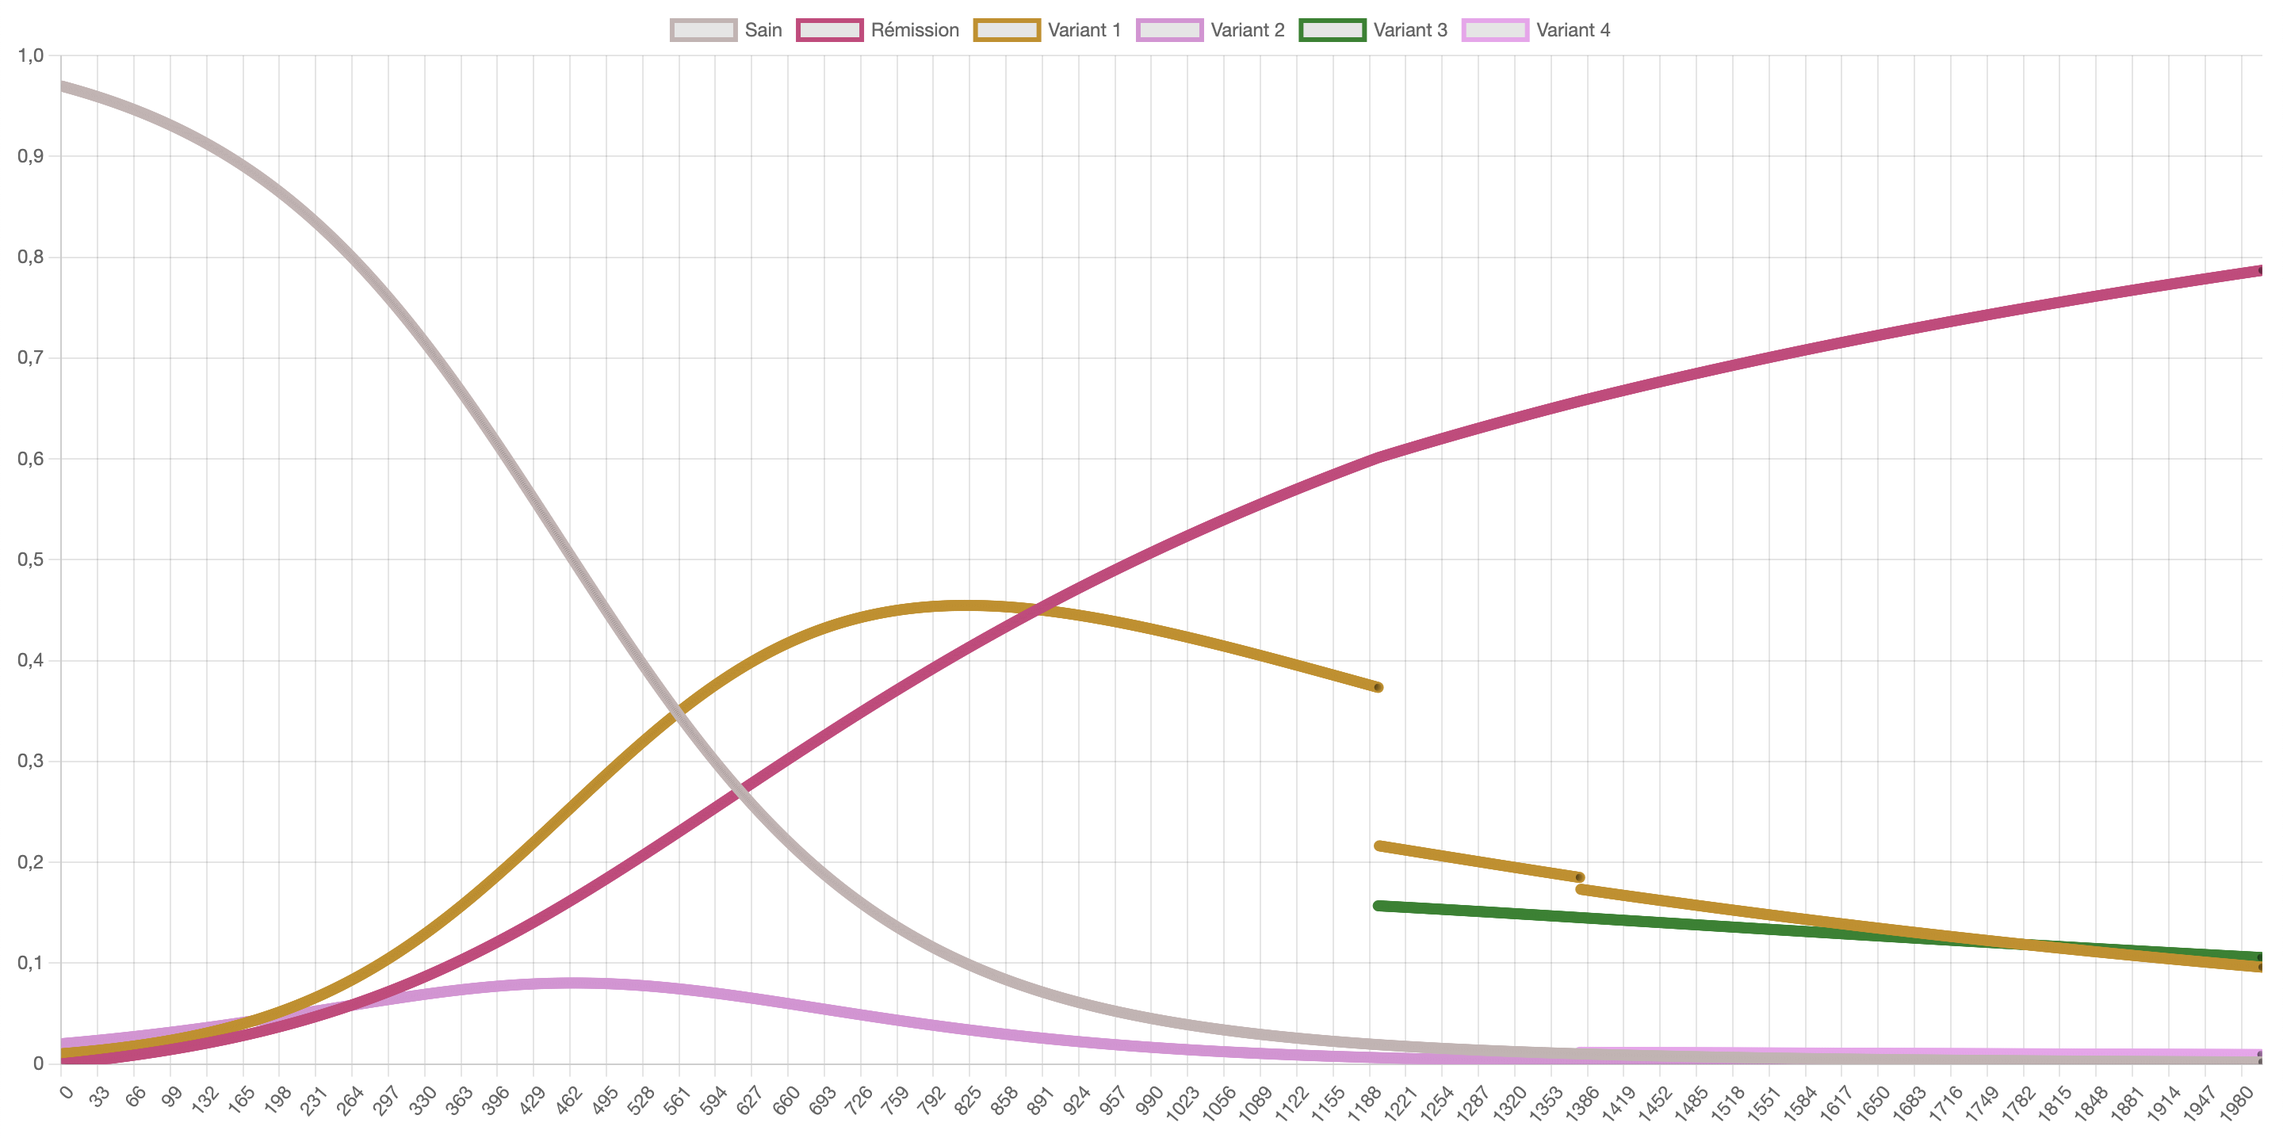
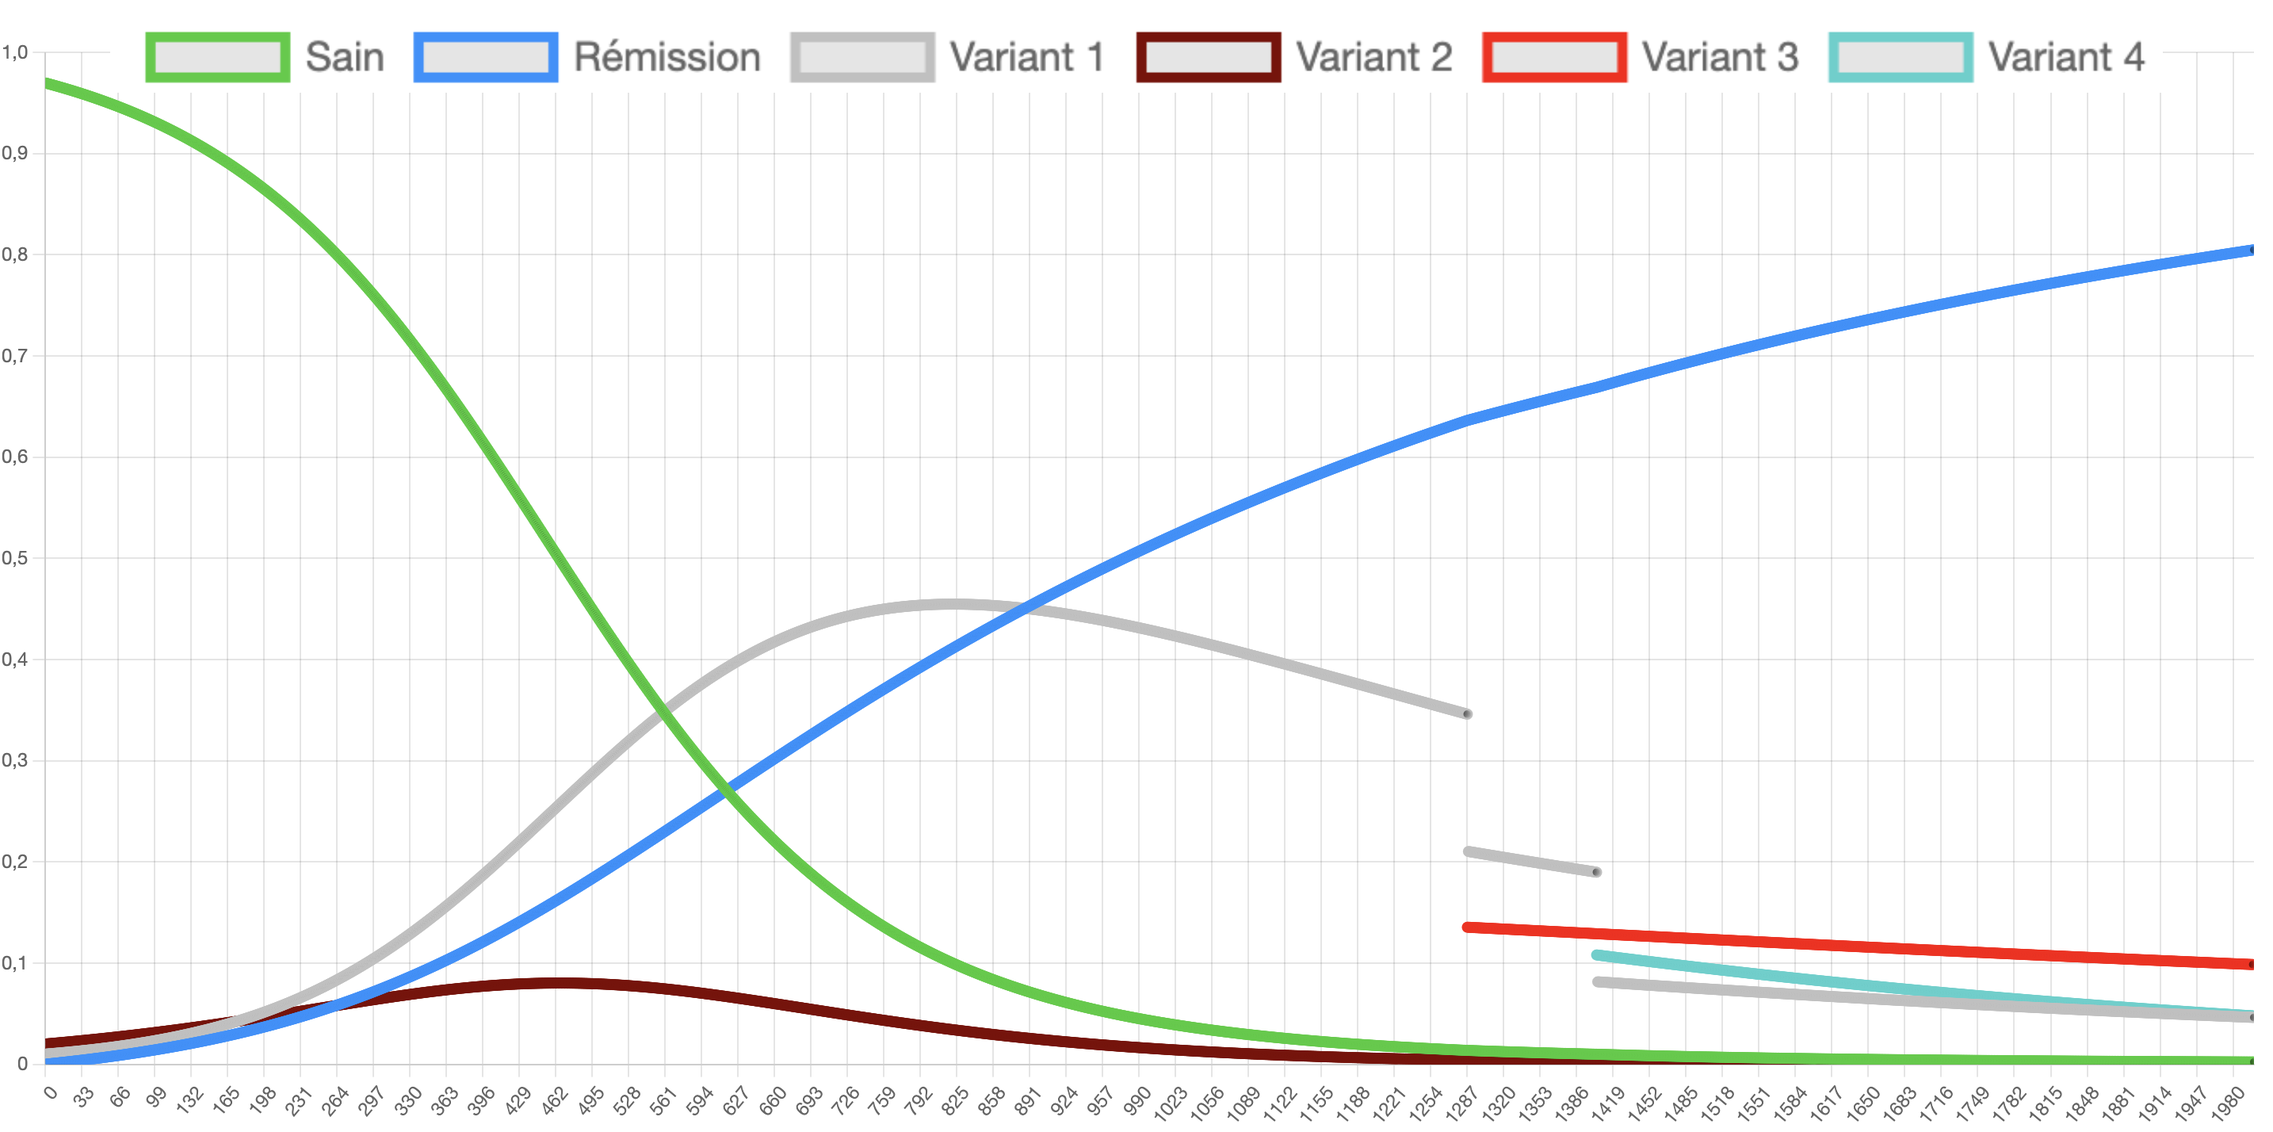
:sparkles: :memo: Update html and lateX

diff --git a/www/index.html b/www/index.html
@@ -22,7 +22,7 @@
         <input type="number" id="healty" name="healty" min="0" max="1" step="0.1" />
         <label>Taux de personnes en rémission</label>
         <input type="number" id="remission" name="remission" min="0" max="1" step="0.1" />
-        <label>Gamma pour la probabilité de mutation du virus</label>
+        <label>Mutabilité du virus</label>
         <input type="number" id="gamma" name="gamma" min="0" max="1" step="0.01" />
         <label>Probabilité de créer un nouveau variant avec des paramètres très éloignées de son parent.</label>
         <input type="number" id="differentVariantPercent" name="differentVariantPercent" min="0" max="100" step="1" />

diff --git a/rapport.tex b/rapport.tex
@@ -1,11 +1,12 @@
 \documentclass{article}
-\usepackage[T1]{fontenc} 
+\usepackage[T1]{fontenc}
 \usepackage[utf8]{inputenc}
 \usepackage[french]{babel}
 \usepackage{listings, xcolor, graphicx}
 \usepackage{amsmath}
 \usepackage{textgreek}
 \usepackage{enumitem}
+\usepackage{subcaption}
 \graphicspath{ {./} }
 
 \title{Modélisation de la propagation des variants du COVID}
@@ -18,11 +19,13 @@
 
 \section{Résumé}
 
-Dans ce rapport, ...
+Dans ce rapport, on a répondu a la problématique suivante :\\
+Le comportement de l'épidemie de la COVID-19 est-il influencé par la circulation, la mutation et l'interaction de variants ?
+Pour répondre à cette question, on a mis en place un certain nombre d'équation afin de réaliser des simulations. \\Celles-ci nous ont permis d'en conclure que la circulation, la mutation et l'interaction influencent le comportement de l'épidemie.
 
 \section{Introduction}
 
-Dans ce rapport, on va étudier la propagation de la Covid-19 par le biais des variants.
+Dans ce rapport, on va étudier la propagation de la COVID-19 par le biais des variants.
 On se demande alors si leur circulation et mutation influencent le comportement de l'épidémie, en plus de considérer leur interaction entre eux.\\
 
 \noindent
@@ -43,7 +46,7 @@ Enfin, on concluera notre étude.\\
 
 La modélisation de départ est très basique et représente l'évolution d'un seul variant en prenant en compte sa virulence et sa force de contamination.\\
 \noindent
-Les variables de base pour seulement 1 virus sont les suivantes : 
+Les variables de base pour seulement 1 virus sont les suivantes :
 \begin{align}
     S(t)= \text{\% de personnes saines dans la population au temps t} \\
     I(t)= \text{\% de personnes contaminées dans la population au temps t} \\
@@ -53,7 +56,7 @@ Les variables de base pour seulement 1 virus sont les suivantes :
 \textalpha \space représente la force de contagion du virus. \\
 \textbeta \space représente la virulence du virus. \\
 \noindent
-La simulation discrétisée par le temps est représentée dans le système d'équation suivante : 
+La simulation discrétisée par le temps est représentée dans le système d'équation suivante :
 \begin{align}
     \dot{S}(t)= -\alpha S(t)I(t) \\
     \dot{I}(t)= \alpha S(t)I(t)-\beta I(t) \\
@@ -64,7 +67,7 @@ Cette mise en équation permet de simuler facilement la propagation de la Covid-
 
 \section{Modélisation avancée}
 
-Afin de modéliser un modèle à X variants, un nouveau système d'équation est nécessaire.\\ 
+Afin de modéliser un modèle à X variants, un nouveau système d'équation est nécessaire.\\
 Pour débuter, on a définit un nouveau modèle avec 2 variants qui pourra être modifié pour permettre de simuler X variants.\\
 \noindent
 Les variables de notre nouveau modèle sont les mêmes que précédemment, c'est-à-dire :
@@ -113,7 +116,7 @@ Si une mutation doit être réalisé alors \\
 T est un nombre aléatoire tel que 0 < T < 100 \\
 t est la probabilité que les propriétés d'un variant soient fortement différentes des propriétés du parent.\\
 Si T > t \\
-Alors F(T) = 
+Alors F(T) =
 \begin{align}
     new_\alpha = x, \alpha_{variant} \times 1.2 < x < \alpha_{variant} \times 1.4 \\
     new_\beta = x, \beta_{variant} \times 0.9 < x < \beta_{variant} \times 1.1
@@ -131,134 +134,140 @@ Sinon F(T) = \\
 Dans cette partie, on va réaliser plusieurs simulations avec différents paramètres. Ces simulations sont produites avec un outil que l'on a développé et déployé en ligne, disponible à l'adresse suivante : https://modelisation.vercel.app/ \\
 Les paramètres initiaux sont les suivants : \\
 \begin{enumerate}
-    \item Taux de personnes saines -> 0,97
-    \item Taux de personnes en rémission -> 0
-    \item Gamma pour la probabilité de mutation du virus -> 0,01
-    \item Probabilité de créer un nouveau variant avec des paramètres très éloignées de son parent -> 1
-    \item Durée de la simulation en jours -> 2000\\
+    \item Taux de personnes saines = 0,97
+    \item Taux de personnes en rémission = 0
+    \item Mutabilité du virus = 0,01
+    \item Probabilité de créer un nouveau variant avec des paramètres très éloignées de son parent = 1
+    \item Durée de la simulation en jours = 2000\\
 \end{enumerate}
-Pour le variant 1 : 
+Pour le variant 1 :
 \begin{enumerate}
-    \item Taux de personnes infecté -> 0,01
-    \item Force de contagion du variant -> 0,01
-    \item Virulence du variant -> 0,001\\
+    \item Taux de personnes infecté = 0,01
+    \item Force de contagion du variant = 0,01
+    \item Virulence du variant = 0,001\\
 \end{enumerate}
-Pour le variant 2 : 
+Pour le variant 2 :
 \begin{enumerate}
-    \item Taux de personnes infecté -> 0,02
-    \item Force de contagion du variant -> 0,01
-    \item Virulence du variant -> 0,005\\
+    \item Taux de personnes infecté = 0,02
+    \item Force de contagion du variant = 0,01
+    \item Virulence du variant = 0,005\\
 \end{enumerate}
 
-Dans la majorité des simulations, on fera varier un seul de ses paramètres afin d'identifier la cause réel du changement. \\ 
+Dans la majorité des simulations, on fera varier un seul de ses paramètres afin d'identifier la cause réel du changement. \\
 Si on se permet de modifier plusieurs paramètres en même temps, on ne peut plus être sûr de ce qui cause un possible changement observé. \\
 
-\subsection{Simulation 1}
+\subsection{Simulation de référence}
 
 \begin{figure}[h]
     \includegraphics[width=\linewidth]{images/Simulation1.png}
-    \caption{Simulation 1}
+    \caption{Simulation de référence}
     \label{fig:simulation1}
 \end{figure}
 
 \noindent
-La simulation actuelle utilise les paramètres de base énoncé un peu plus haut. \\
-On remarque la création de 7 nouveaux variants : \\
+La simulation de référence utilise les paramètres de base énoncé un peu plus haut. \\
+On remarque la création de 6 nouveaux variants : \\
 \begin{enumerate}
-    \item Variant 3 : Apparition au jour 19. Il est issu du variant 1. Il devient très rapidement le variant principal et touche une grande partie de la population.
-    \item Variant 4 : Apparition au jour 247. Il est issu du variant 3. Il survit avec un faible taux d'infection.
-    \item Variant 5 : Apparition au jour 517. Il est issu du variant 2. Il survit avec un faible taux d'infection.
-    \item Variant 6 : Apparition au jour 558. Il est issu du variant 3. Il hérite des propriétés de son parent et infecte une partie relativement importante de la population.
-    \item Variant 7 : Apparition au jour 934. Il est issu du variant 6. Il survit avec un faible taux d'infection.
-    \item Variant 8 : Apparition au jour 1109. Il est issu du variant 3. Il sera le variant le plus fort à la fin de la simulation.
-    \item Variant 9 : Apparition au jour 1499. Il est issu du variant 4. Il ne survit pas.
+    \item Variant 3 : Apparition au jour 231. Il est issu du variant 2. Il ne survit pas.
+    \item Variant 4 : Apparition au jour 561. Il est issu du variant 1.
+    \item Variant 5 : Apparition au jour 627. Il est issu du variant 4. Il survit avec un faible taux d'infection.
+    \item Variant 6 : Apparition au jour 660. Il est issu du variant 2. Il ne survit pas.
+    \item Variant 7 : Apparition au jour 1419. Il est issu du variant 4. Il ne survit pas.
+    \item Variant 8 : Apparition dans les derniers jours de la modélisation.
 \end{enumerate}
 
-NB pour l'interprétation -> On remarque que quasiment tout les variants sont dérivés du variant 3 ou d'un de ses enfants. Explication ? Naissance avec des caractéristiques très dfférentes de son parent. \\
+On remarque que quasiment tout les variants sont dérivés du variant 3 ou d'un de ses enfants. Explication ? Naissance avec des caractéristiques très dfférentes de son parent. \\
 
-\subsection{Simulation 2}
+\subsection{Influence de la mutabilité du virus}
 
 \begin{figure}[h]
-    \includegraphics[width=\linewidth]{images/Simulation2.png}
-    \caption{Simulation 2}
-    \label{fig:simulation2}
+  \begin{subfigure}{.5\textwidth}
+  \centering
+  \includegraphics[width=1\linewidth]{images/Simulation2.png}
+  \caption{Mutabilité du virus plus faible}
+  \label{fig:sub1}
+\end{subfigure}%
+\begin{subfigure}{.5\textwidth}
+  \centering
+  \includegraphics[width=1\linewidth]{images/Simulation2_2.png}
+  \caption{Mutabilité du virus plus haute}
+  \label{fig:sub2}
+\end{subfigure}
 \end{figure}
 
-Pour cette simulation, on a décidé de modifier le paramètre suivant : 
+Pour cette simulation, on a décidé de modifier le paramètre suivant :
 \begin{enumerate}
-    \item Gamma pour la probabilité de mutation du virus -> 0,005 \\
+    \item Mutabilité du virus = 0,005 pour la figure (a)
+    \item Mutabilité du virus = 0,05 pour la figure (b) \\
 \end{enumerate}
 \noindent
-On remarque la création de 2 nouveaux variants : \\
-\begin{enumerate}
-    \item Variant 3 : Apparition au jour 1196. Il est issu du variant 1. Il sera le variant le plus fort à la fin de la simulation.
-    \item Variant 4 : Apparition au jour 1379. Il est issu du variant 1. Il ne touche qu'un très faible taux de la population dès le début. \\
-\end{enumerate}
+On remarque la création de 2 nouveaux variants. \\
 
-NB pour l'interprétation -> Très forte domination du variant 1 sur le variant 2 bien que le taux d'infecté soit > pour le variant 2 au début de la simulation. Les taux de contagions sont les mêmes mais il y a une différence dans les taux de virulence. \\
-Forte différence entre le variant 3 et le variant 4. \\ Le variant 3 est issu du variant 1, avec des critères similaires car il reste fort. \\ Le variant 4 semble avoir des caractéristiques très différentes de son parent. \\ 
+Très forte domination du variant 1 sur le variant 2 bien que le taux d'infecté soit > pour le variant 2 au début de la simulation. Les taux de contagions sont les mêmes mais il y a une différence dans les taux de virulence. \\
+Forte différence entre le variant 3 et le variant 4. \\ Le variant 3 est issu du variant 1, avec des critères similaires car il reste fort. \\ Le variant 4 semble avoir des caractéristiques très différentes de son parent. \\
 
-\subsection{Simulation 3}
+\subsection{Influence de la force de contagion du premier variant}
 
 \begin{figure}[h]
     \includegraphics[width=\linewidth]{images/Simulation3.png}
-    \caption{Simulation 3}
+    \caption{Influence de la force de contagion}
     \label{fig:simulation3}
 \end{figure}
 
-Pour cette simulation, on a décidé de modifier le paramètre suivant : 
+Pour cette simulation, on a décidé de modifier le paramètre suivant :
 \begin{enumerate}
-    \item Force de contagion du variant 1 -> 0,05 \\
+    \item Force de contagion du variant 1 = 0,05 \\
 \end{enumerate}
 \noindent
-On remarque la création de 4 nouveaux variants : \\
-\begin{enumerate}
-    \item Variant 3 : Apparition au jour 243. Il est issu du variant 1. 
-    \item Variant 4 : Apparition au jour 372. Il est issu du variant 1.
-    \item Variant 5 : Apparition au jour 406. Il est issu du variant 3.
-    \item Variant 6 : Apparition au jour 1448. Il est issu du variant 1. \\
-\end{enumerate}
+On remarque la création de 4 nouveaux variants. \\
 
-NB pour l'interprétation -> On remarque qu'avec un taux de contagion plus élevé, le variant 1 infecte quasiment toute la population... \\
+On remarque qu'avec un taux de contagion plus élevé, le variant 1 infecte quasiment toute la population... \\
 
-\subsection{Simulation 4}
+\subsection{Influence de la virulence du premier variant}
 
 
 \begin{figure}[h]
     \includegraphics[width=\linewidth]{images/Simulation4.png}
-    \caption{Simulation 4}
+    \caption{Influence de la virulence du premier variant}
     \label{fig:simulation4}
 \end{figure}
 
-Pour cette simulation, on a décidé de modifier le paramètre suivant : 
+Pour cette simulation, on a décidé de modifier le paramètre suivant :
 \begin{enumerate}
-    \item Virulence du variant -> 0,0001 \\
+    \item Virulence du variant = 0,0001 \\
 \end{enumerate}
 \noindent
-On remarque la création de 6 nouveaux variants : \\
-\begin{enumerate}
-    \item Variant 3 : Apparition au jour 278. Il est issu du variant 1. 
-    \item Variant 4 : Apparition au jour 647. Il est issu du variant 1.
-    \item Variant 5 : Apparition au jour 1145. Il est issu du variant 4.
-    \item Variant 6 : Apparition au jour 1202. Il est issu du variant 1. 
-    \item Variant 7 : Apparition au jour 1462. Il est issu du variant 4.
-    \item Variant 8 : Apparition au jour 1479. Il est issu du variant 1. \\
-\end{enumerate}
+On remarque la création de 6 nouveaux variants. \\
 
-NB pour l'interprétation -> On remarque qu'avec un taux de virulence plus faible, le variant 1 infecte une bonne partie de la population et le taux de rémission reste faible après 2000j. \\
+On remarque qu'avec un taux de virulence plus faible, le variant 1 infecte une bonne partie de la population et le taux de rémission reste faible après 2000j. \\
 De plus le viriant 4, issu du variant 1, est plus fort que son parent à la fin de la simulation. \\
 Inexistance du variant 2.
 
 
-\subsection{Simulation 5}
+\subsection{Simulation pour avoir un variant gagnant sur le taux de rémission}
 
-Simulation avec plusieurs paramètres pour ressortir un variant enfant qui dépasse son parent et le taux de rémission ?
+\begin{figure}[h]
+    \includegraphics[width=\linewidth]{images/Simulation5.png}
+    \caption{Simulation pour avoir un variant gagnant sur le taux de rémission}
+    \label{fig:simulation5}
+\end{figure}
+
+Pour cette simulation, on a décidé de modifier les paramètres suivants :
+\begin{enumerate}
+    \item Mutabilité du virus = 0,0001
+    \item Virulence du variant 2 = 0,0002
+\end{enumerate}
 
 
-\section{Interprétation des résultats}
+\section{Discussion des résultats}
 
-On remarque que les nouveaux variants entrainent une coupure dans les courbes des variants dont ils sont issus. \\ 
+Dans cette partie, on s'intéressera à l'interprétation des résultats de chaque simulation afin d'en déduire les paramètres les plus intéressants pour le dévéloppement de nos variants.
+
+
+
+On remarque que les nouveaux variants entrainent une coupure dans les courbes des variants dont ils sont issus. \\
 En effet, le taux de personnes infecté par un variant est issu du taux de personne infecté par le variant parent. \\
+Nous avons décidé de faire en sorte que la création d'un variant affecte un grand nombre de la population du variant parent afin d'avoir des résultats intéressant directement. Si nous avions décidé de faire muter qu'une petite partie de notre population, nous aurions eu des difficultés à étudier le développement des variants. En effet, dans la réalité, il y a des millions de variants qui naissent chaque jour mais seulement un faible nombre survit. Pour des raisons de performances, nous ne pouvons pas modéliser des millions de variants.
 
 L'effet de la durée de la simulation sur les variants (à la fin, est-ce qu'un variant domine ou alors est-ce que tout le monde est remis ?) \\
 
@@ -271,15 +280,16 @@ Sur un temps T défini, résultats :\\
 
 \section{Conclusion}
 
-reprendre la problématique, réponse\\
+Le comportement de l'épidemie de la COVID-19 est-il influencé par la circulation, la mutation et l'interaction des variants ?
+A partir de nos simulations, on a conclu que la circulation et la mutation des variants permet a un virus d'infecter la quasi-totalité de la population très rapidement. L'interaction entre les variants permet de conclure que si le taux de virulence est faible, un variant enfant peut contaminer plus de monde q'un variant parent. \\
 
 Concernant les perspectives d'améliorations, nous pouvons envisager :
 \begin{enumerate}
-    \item La gestion du nombre de variants de départ. Cela permettrait d'approfondir encore plus les possibilité de simulation. 
-    \item L'ajout d'une notion de graine lié au randomisateur. Avec cela, on peut s'assurer que les résultats obtenus sont toujours identiques pour les mêmes paramètres bien que l'on utilise un système se basant sur une forme d'aléatoire. 
-    \item La possibilité de se faire infecter par plusieurs variants en même temps. 
-    \item La possibilité de se faire infecter une nouvelle fois après guérison d'un autre variant. 
-    \item L'ajout d'une notion de vaccination, les personnes saines pourraient être vaccinées ou non ainsi que les personnes remises. 
+    \item La gestion du nombre de variants de départ. Cela permettrait d'approfondir encore plus les possibilité de simulation.
+    \item L'ajout d'une notion de graine lié au randomisateur. Avec cela, on peut s'assurer que les résultats obtenus sont toujours identiques pour les mêmes paramètres bien que l'on utilise un système se basant sur une forme d'aléatoire.
+    \item La possibilité de se faire infecter par plusieurs variants en même temps.
+    \item La possibilité de se faire infecter une nouvelle fois après guérison d'un autre variant.
+    \item L'ajout d'une notion de vaccination, les personnes saines pourraient être vaccinées ou non ainsi que les personnes remises.
     \item Ajouter des détails au moment de la création d'un variant (notamment sur le fait de savoir s'il est né avec des paramètres très différents de son parent.).
     \item Enfin, il manque une notion principale, le fait de pouvoir décéder du variant. Dans nos simulations, la population est soit saine, soit en rémission soit infecté mais elle ne peut pas être infecté puis décédée.
 \end{enumerate}
